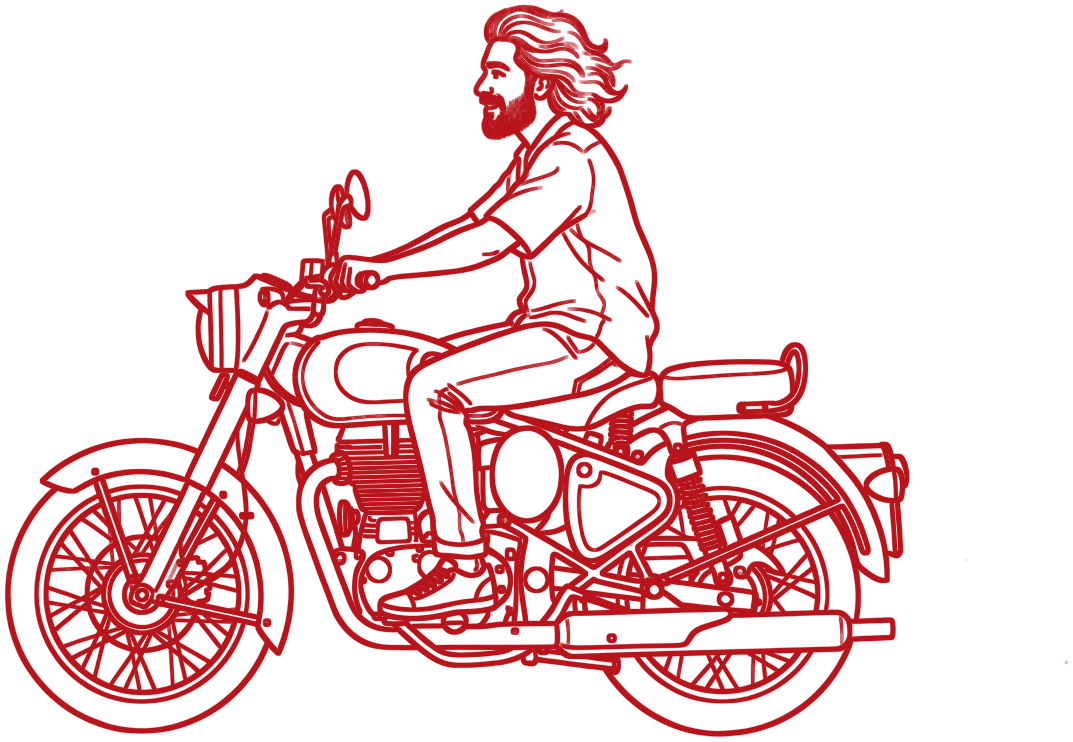
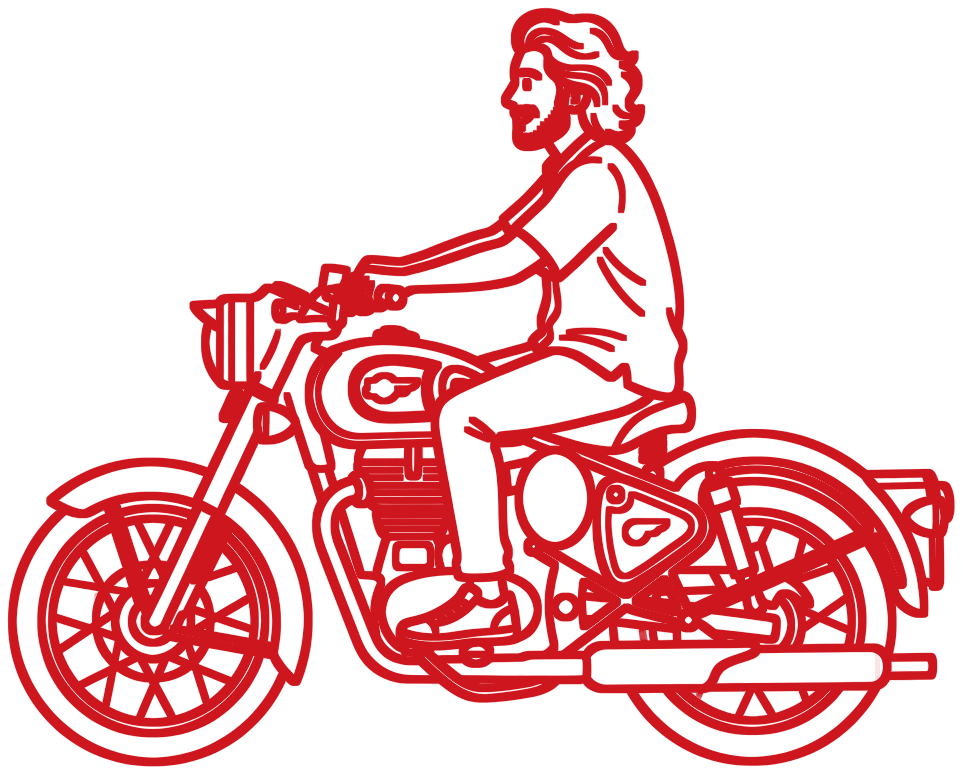
v127: clearer welcome drawings, simpler FIFA and Bullet
- Thicker, brighter red lines with a thin white keyline so they read on the sky
- FIFA and Royal Enfield Bullet redrawn at a medium level of detail
- Overlays re-fitted to the new drawings

Claude-Session: https://claude.ai/code/session_013G15fzCMwgXvJexXZMdXm4

diff --git a/index.html b/index.html
@@ -24,11 +24,11 @@
   <meta property="og:image:height" content="630">
   <meta property="og:image:alt" content="Sijo Joseph, product, UX and AI designer, with four case study covers">
   <meta name="twitter:card" content="summary_large_image">
-  <script src="update.js?v=126"></script>
-  <script src="gate.js?v=126"></script>
-  <link href="fonts/fonts.css?v=126" rel="stylesheet">
-  <link rel="stylesheet" href="styles.css?v=126">
-  <link rel="stylesheet" href="reader.css?v=126">
+  <script src="update.js?v=127"></script>
+  <script src="gate.js?v=127"></script>
+  <link href="fonts/fonts.css?v=127" rel="stylesheet">
+  <link rel="stylesheet" href="styles.css?v=127">
+  <link rel="stylesheet" href="reader.css?v=127">
   <script type="importmap">
   {
     "imports": {
@@ -42,10 +42,10 @@
   <link rel="modulepreload" href="vendor/three/examples/jsm/loaders/GLTFLoader.js">
   <link rel="modulepreload" href="vendor/three/examples/jsm/controls/OrbitControls.js">
   <link rel="modulepreload" href="vendor/three/examples/jsm/libs/meshopt_decoder.module.js">
-  <link rel="modulepreload" href="main.js?v=126">
-  <link rel="modulepreload" href="sound.js?v=126">
-  <link rel="modulepreload" href="room-utils.js?v=126">
-  <link rel="modulepreload" href="cat.js?v=126">
+  <link rel="modulepreload" href="main.js?v=127">
+  <link rel="modulepreload" href="sound.js?v=127">
+  <link rel="modulepreload" href="room-utils.js?v=127">
+  <link rel="modulepreload" href="cat.js?v=127">
   <script type="application/ld+json">{"@context": "https://schema.org", "@type": "Person", "name": "Sijo Joseph", "url": "https://sijo.work/", "jobTitle": "Product, UX and AI designer", "alumniOf": {"@type": "CollegeOrUniversity", "name": "National Institute of Design, Bengaluru"}, "address": {"@type": "PostalAddress", "addressLocality": "Bengaluru", "addressCountry": "IN"}, "sameAs": ["https://www.linkedin.com/in/sijodesign", "https://github.com/sijojoseph7509-a11y"], "knowsAbout": ["Product design", "UX design", "Interaction design", "Information design", "Wayfinding", "Brand identity", "AI-assisted prototyping"]}</script>
 </head>
 <body>
@@ -90,33 +90,33 @@
   <div class="loader" id="loader">
     <!-- v125: Sijo and Shea, drawn in the red ink of the cloud's handwriting (Figma AI, line only), animated in CSS around the welcome card -->
     <div class="wl-ill wl-juggle" aria-hidden="true">
-      <img src="assets/welcome/juggle.webp" alt="" width="699" height="1096" decoding="async">
-      <svg viewBox="0 0 699 1096"><g class="wl-kick" stroke="#B8141B" stroke-width="6" stroke-linecap="round"><path d="M512,690 l-26,6 M518,714 l-28,14 M622,686 l26,-8"/></g><g class="wl-ball"><g class="wl-spin"><circle r="54" fill="none" stroke="#B8141B" stroke-width="6.8"/><path d="M0,-18.9 L18.0,-5.8 L11.1,15.3 L-11.1,15.3 L-18.0,-5.8 Z" fill="#B8141B"/><path d="M0,-18.9 V-49.7 M18.0,-5.8 L47.0,-15.1 M11.1,15.3 L28.6,41.6 M-11.1,15.3 L-28.6,41.6 M-18.0,-5.8 L-47.0,-15.1" stroke="#B8141B" stroke-width="6.0" stroke-linecap="round" fill="none"/></g></g></svg>
+      <img src="assets/welcome/juggle.webp" alt="" width="707" height="1104" decoding="async">
+      <svg viewBox="0 0 707 1104"><g class="wl-kick" stroke="#CE161E" stroke-width="6" stroke-linecap="round"><path d="M512,690 l-26,6 M518,714 l-28,14 M622,686 l26,-8"/></g><g class="wl-ball"><g class="wl-spin"><circle r="54" fill="none" stroke="#CE161E" stroke-width="6.8"/><path d="M0,-18.9 L18.0,-5.8 L11.1,15.3 L-11.1,15.3 L-18.0,-5.8 Z" fill="#CE161E"/><path d="M0,-18.9 V-49.7 M18.0,-5.8 L47.0,-15.1 M11.1,15.3 L28.6,41.6 M-11.1,15.3 L-28.6,41.6 M-18.0,-5.8 L-47.0,-15.1" stroke="#CE161E" stroke-width="6.0" stroke-linecap="round" fill="none"/></g></g></svg>
     </div>
     <div class="wl-ill wl-lift" aria-hidden="true">
-      <img src="assets/welcome/lift.webp" alt="" width="508" height="1140" decoding="async">
-      <svg viewBox="0 0 508 1140"><g class="wl-effort" stroke="#B8141B" stroke-width="6" stroke-linecap="round" fill="none"><path d="M20,40 l-22,-14 M14,78 l-26,0 M480,70 l24,-14 M488,108 l26,0"/></g>
-        <path class="wl-sweat" d="M352,190 q-12,20 0,26 q12,-6 0,-26 Z" fill="none" stroke="#B8141B" stroke-width="5"/>
+      <img src="assets/welcome/lift.webp" alt="" width="516" height="1148" decoding="async">
+      <svg viewBox="0 0 516 1148"><g class="wl-effort" stroke="#CE161E" stroke-width="6" stroke-linecap="round" fill="none"><path d="M20,40 l-22,-14 M14,78 l-26,0 M480,70 l24,-14 M488,108 l26,0"/></g>
+        <path class="wl-sweat" d="M352,190 q-12,20 0,26 q12,-6 0,-26 Z" fill="none" stroke="#CE161E" stroke-width="5"/>
         <text class="wl-reps" x="-230" y="640"><tspan class="r1">8</tspan><tspan class="r2" x="-230">9</tspan><tspan class="r3" x="-230">10!</tspan></text></svg>
     </div>
     <div class="wl-ill wl-fifa" aria-hidden="true">
-      <img src="assets/welcome/fifa.webp" alt="" width="1139" height="653" decoding="async">
-      <svg viewBox="0 0 1139 653"><g fill="none" stroke="#B8141B" stroke-width="3" stroke-linejoin="round"><path d="M97,165 L247,185 L247,367 L97,439 Z"/><path d="M172.0,175.0 L172.0,403.0"/><path d="M186.6,286.5 L186.1,293.9 L184.7,301.1 L182.3,307.6 L179.3,312.9 L175.8,316.7 L172.0,318.6 L168.2,318.6 L164.7,316.4 L161.7,312.3 L159.3,306.5 L157.9,299.4 L157.4,291.5 L157.9,283.5 L159.3,275.9 L161.7,269.3 L164.7,264.1 L168.2,260.7 L172.0,259.4 L175.8,260.0 L179.3,262.6 L182.3,266.8 L184.7,272.5 L186.1,279.2 Z"/><path d="M97.0,241.7 L119.5,240.9 L119.5,355.3 L97.0,362.3"/><path d="M247.0,236.0 L224.5,236.8 L224.5,323.0 L247.0,316.0"/><path d="M247.0,261.4 L253.0,260.7 L253.0,289.2 L247.0,290.6"/></g>
-        <circle class="wl-p wl-def" r="10" fill="none" stroke="#B8141B" stroke-width="4"/><circle class="wl-p wl-gk" r="10" fill="none" stroke="#B8141B" stroke-width="4"/>
-        <circle class="wl-p wl-att" r="10.5" fill="#B8141B"/><circle class="wl-p wl-tvball" r="6" fill="#B8141B"/>
-        <text class="wl-goal" x="60" y="120" transform="rotate(-9 170 90)">GOAL!</text>
-        <g class="wl-buzz" stroke="#B8141B" stroke-width="6" stroke-linecap="round"><path d="M580,265 l-22,-16 M570,302 l-28,2 M580,338 l-20,16"/></g></svg>
+      <img src="assets/welcome/fifa.webp" alt="" width="1192" height="729" decoding="async">
+      <svg viewBox="0 0 1192 729"><g fill="none" stroke="#CE161E" stroke-width="4" stroke-linejoin="round"><path d="M116,45 L337,111 L337,377 L116,465 Z"/><path d="M226.5,78.0 L226.5,421.0"/><path d="M248.0,248.4 L247.3,259.5 L245.2,270.0 L241.7,279.3 L237.3,286.7 L232.1,291.8 L226.5,294.1 L220.9,293.3 L215.7,289.5 L211.3,282.8 L207.8,273.6 L205.7,262.6 L205.0,250.6 L205.7,238.5 L207.8,227.3 L211.3,217.8 L215.7,210.6 L220.9,206.2 L226.5,204.9 L232.1,206.6 L237.3,211.2 L241.7,218.2 L245.2,227.1 L247.3,237.4 Z"/><path d="M116.0,162.6 L149.2,166.0 L149.2,340.7 L116.0,347.4"/><path d="M337.0,185.5 L303.9,182.0 L303.9,309.3 L337.0,302.5"/><path d="M337.0,222.7 L345.8,222.8 L345.8,264.3 L337.0,265.3"/></g>
+        <circle class="wl-p wl-def" r="13" fill="none" stroke="#CE161E" stroke-width="5"/><circle class="wl-p wl-gk" r="13" fill="none" stroke="#CE161E" stroke-width="5"/>
+        <circle class="wl-p wl-att" r="13.5" fill="#CE161E"/><circle class="wl-p wl-tvball" r="8" fill="#CE161E"/>
+        <text class="wl-goal" x="380" y="120" transform="rotate(-9 480 90)">GOAL!</text>
+        <g class="wl-buzz" stroke="#CE161E" stroke-width="7" stroke-linecap="round"><path d="M655,300 l-24,-18 M644,340 l-30,2 M655,378 l-22,18"/></g></svg>
     </div>
     <div class="wl-ill wl-bullet" aria-hidden="true">
-      <img src="assets/welcome/bullet.webp" alt="" width="1073" height="742" decoding="async">
-      <svg viewBox="0 0 1073 742"><g fill="none" stroke="#B8141B" stroke-width="5" stroke-linecap="round"><circle class="wl-tread" cx="148" cy="595" r="124" stroke-dasharray="6 34"/><circle class="wl-tread" cx="718" cy="602" r="124" stroke-dasharray="6 34"/></g>
-        <path class="wl-road" d="M-60,740 H1130" stroke="#B8141B" stroke-width="5" stroke-linecap="round" stroke-dasharray="70 70"/>
-        <g fill="none" stroke="#B8141B" stroke-width="5"><circle class="wl-puff p1" cx="905" cy="628" r="26"/><circle class="wl-puff p2" cx="905" cy="628" r="20"/><circle class="wl-puff p3" cx="905" cy="628" r="32"/></g>
-        <text class="wl-dug" x="860" y="520">dug dug dug</text></svg>
+      <img src="assets/welcome/bullet.webp" alt="" width="963" height="775" decoding="async">
+      <svg viewBox="0 0 963 775"><g fill="none" stroke="#CE161E" stroke-width="6" stroke-linecap="round"><circle class="wl-tread" cx="158" cy="613" r="128" stroke-dasharray="8 52"/><circle class="wl-tread" cx="753" cy="621" r="124" stroke-dasharray="8 52"/></g>
+        <path class="wl-road" d="M-60,768 H1030" stroke="#CE161E" stroke-width="6" stroke-linecap="round" stroke-dasharray="70 70"/>
+        <g fill="none" stroke="#CE161E" stroke-width="6"><circle class="wl-puff p1" cx="950" cy="664" r="26"/><circle class="wl-puff p2" cx="950" cy="664" r="20"/><circle class="wl-puff p3" cx="950" cy="664" r="32"/></g>
+        <text class="wl-dug" x="760" y="520">dug dug dug</text></svg>
     </div>
     <div class="wl-shea" aria-hidden="true">
-      <div class="wl-shea-ball"><svg viewBox="-46 -46 92 92"><g class="wl-spin"><circle r="40" fill="none" stroke="#B8141B" stroke-width="5.0"/><path d="M0,-14.0 L13.3,-4.3 L8.2,11.3 L-8.2,11.3 L-13.3,-4.3 Z" fill="#B8141B"/><path d="M0,-14.0 V-36.8 M13.3,-4.3 L34.8,-11.2 M8.2,11.3 L21.2,30.8 M-8.2,11.3 L-21.2,30.8 M-13.3,-4.3 L-34.8,-11.2" stroke="#B8141B" stroke-width="4.4" stroke-linecap="round" fill="none"/></g></svg></div>
-      <img class="wl-shea-cat" src="assets/welcome/shea.webp" alt="" width="995" height="596" decoding="async">
+      <div class="wl-shea-ball"><svg viewBox="-46 -46 92 92"><g class="wl-spin"><circle r="40" fill="none" stroke="#CE161E" stroke-width="5.0"/><path d="M0,-14.0 L13.3,-4.3 L8.2,11.3 L-8.2,11.3 L-13.3,-4.3 Z" fill="#CE161E"/><path d="M0,-14.0 V-36.8 M13.3,-4.3 L34.8,-11.2 M8.2,11.3 L21.2,30.8 M-8.2,11.3 L-21.2,30.8 M-13.3,-4.3 L-34.8,-11.2" stroke="#CE161E" stroke-width="4.4" stroke-linecap="round" fill="none"/></g></svg></div>
+      <img class="wl-shea-cat" src="assets/welcome/shea.webp" alt="" width="1003" height="604" decoding="async">
     </div>
     <div class="loader-inner">
       <span class="loader-name" aria-hidden="true"><img src="assets/brand/sj-mark-on-dark.svg" alt=""></span>
@@ -220,11 +220,11 @@
     </div>
   </noscript>
 
-  <script src="content.js?v=126"></script>
-  <script src="track.js?v=126"></script>
-  <script src="icons.js?v=126"></script>
-  <script src="os.js?v=126"></script>
-  <script src="music.js?v=126"></script>
-  <script type="module" src="main.js?v=126"></script>
+  <script src="content.js?v=127"></script>
+  <script src="track.js?v=127"></script>
+  <script src="icons.js?v=127"></script>
+  <script src="os.js?v=127"></script>
+  <script src="music.js?v=127"></script>
+  <script type="module" src="main.js?v=127"></script>
 </body>
 </html>

diff --git a/styles.css b/styles.css
@@ -687,20 +687,22 @@ button.card .cover::before, button.card .cover::after { display: none; }   /* re
 .wl-ill { position: absolute; z-index: 1; pointer-events: none; }
 .wl-ill img, .wl-ill svg { display: block; width: 100%; height: auto; }
 .wl-ill svg { position: absolute; inset: 0; height: 100%; overflow: visible; }
-.wl-ill text { font-family: "Caveat", "Comic Sans MS", cursive; font-weight: 700; fill: #B8141B; paint-order: stroke; stroke: rgba(255,255,255,.85); stroke-linejoin: round; }
-.wl-juggle { left: 5vw; top: 15vh; height: 37vh; aspect-ratio: 699 / 1096; }
-.wl-lift { left: 19.5vw; top: 50vh; height: 35vh; aspect-ratio: 508 / 1140; }
-.wl-fifa { right: 3vw; top: 14vh; width: 26vw; aspect-ratio: 1139 / 653; }
-.wl-bullet { right: 4.5vw; top: 52vh; width: 24vw; aspect-ratio: 1073 / 742; }
+.wl-ill text { font-family: "Caveat", "Comic Sans MS", cursive; font-weight: 700; fill: #CE161E; paint-order: stroke; stroke: rgba(255,255,255,.85); stroke-linejoin: round; }
+.wl-juggle { left: 5vw; top: 14vh; height: 38vh; aspect-ratio: 707 / 1104; }
+.wl-lift { left: 19.5vw; top: 50vh; height: 36vh; aspect-ratio: 516 / 1148; }
+.wl-fifa { right: 3vw; top: 13vh; width: 25vw; aspect-ratio: 1192 / 729; }
+.wl-bullet { right: 5vw; top: 50vh; width: 21vw; aspect-ratio: 963 / 775; }
 .wl-ill img { animation: wlBoil .5s steps(1) infinite; }
+/* the red lines get a thin white keyline and a soft shadow so they read clearly on the blue sky */
+.wl-ill img, .wl-ill svg, .wl-shea-cat, .wl-shea-ball svg { filter: drop-shadow(0 0 1.2px #fff) drop-shadow(0 0 1.2px #fff) drop-shadow(0 0 .6px #fff) drop-shadow(0 3px 8px rgba(10, 30, 80, .28)); }
 @keyframes wlBoil { 0% { translate: 0 0; } 33% { translate: .4px -.3px; } 66% { translate: -.3px .3px; } }
 
 /* keepy-ups: the ball pops off the raised foot and drops back, spinning; he bobs on each touch */
 .wl-juggle img { transform-origin: 40% 100%; animation: wlTouch 1.1s cubic-bezier(.3,.6,.4,1) infinite, wlBoil .5s steps(1) infinite; }
 @keyframes wlTouch { 0%, 100% { transform: none; } 8% { transform: translateY(-5px) rotate(-1.2deg); } 32% { transform: none; } }
 .wl-ball { animation: wlUp 1.1s infinite; }
-@keyframes wlUp { 0% { transform: translate(566px, 628px); animation-timing-function: cubic-bezier(.15,.7,.35,1); }
-  50% { transform: translate(536px, 110px); animation-timing-function: cubic-bezier(.65,0,.85,.3); } 100% { transform: translate(566px, 628px); } }
+@keyframes wlUp { 0% { transform: translate(570px, 632px); animation-timing-function: cubic-bezier(.15,.7,.35,1); }
+  50% { transform: translate(540px, 114px); animation-timing-function: cubic-bezier(.65,0,.85,.3); } 100% { transform: translate(570px, 632px); } }
 .wl-spin { animation: wlSpin 1.1s linear infinite; } @keyframes wlSpin { to { rotate: 360deg; } }
 .wl-kick { opacity: 0; animation: wlKick 1.1s infinite; } @keyframes wlKick { 0%, 14% { opacity: 1; } 22%, 100% { opacity: 0; } }
 
@@ -723,10 +725,10 @@ button.card .cover::before, button.card .cover::after { display: none; }   /* re
 .wl-buzz { opacity: 0; animation: wlBuzz 6s infinite; } @keyframes wlBuzz { 0%, 61%, 86%, 100% { opacity: 0; } 63%, 67%, 71%, 75%, 79% { opacity: 1; } 65%, 69%, 73%, 77% { opacity: .2; } }
 .wl-fifa img { animation: wlCheer 6s infinite, wlBoil .5s steps(1) infinite; transform-origin: 75% 100%; }
 @keyframes wlCheer { 0%, 61%, 82%, 100% { transform: none; } 65% { transform: translateY(-8px) rotate(.6deg); } 69% { transform: translateY(-2px); } 73% { transform: translateY(-7px) rotate(-.4deg); } 77% { transform: none; } }
-@keyframes wlBall { 0% { transform: translate(172.0px, 289.0px); } 15% { transform: translate(187.0px, 255.8px); } 32% { transform: translate(202.0px, 309.0px); } 50% { transform: translate(223.0px, 268.4px); } 62% { transform: translate(248.5px, 275.7px); } 86% { transform: translate(248.5px, 275.7px); } 87% { transform: translate(172.0px, 289.0px); } 100% { transform: translate(172.0px, 289.0px); } }
-@keyframes wlAtt { 0% { transform: translate(163.0px, 295.2px); } 15% { transform: translate(179.5px, 265.4px); } 32% { transform: translate(194.5px, 306.5px); } 50% { transform: translate(215.5px, 273.4px); } 62% { transform: translate(226.0px, 279.6px); } 86% { transform: translate(226.0px, 279.6px); } 87% { transform: translate(163.0px, 295.2px); } 100% { transform: translate(163.0px, 295.2px); } }
-@keyframes wlDef { 0% { transform: translate(205.0px, 241.7px); } 20% { transform: translate(208.0px, 272.5px); } 40% { transform: translate(217.0px, 291.2px); } 55% { transform: translate(232.0px, 297.7px); } 86% { transform: translate(232.0px, 301.5px); } 87% { transform: translate(205.0px, 241.7px); } 100% { transform: translate(205.0px, 241.7px); } }
-@keyframes wlGk { 0% { transform: translate(242.5px, 276.8px); } 45% { transform: translate(242.5px, 265.7px); } 58% { transform: translate(242.5px, 306.3px); } 86% { transform: translate(242.5px, 306.3px); } 87% { transform: translate(242.5px, 276.8px); } 100% { transform: translate(242.5px, 276.8px); } }
+@keyframes wlBall { 0% { transform: translate(226.5px, 249.5px); } 15% { transform: translate(248.6px, 202.5px); } 32% { transform: translate(270.7px, 284.8px); } 50% { transform: translate(301.6px, 228.3px); } 62% { transform: translate(339.2px, 243.9px); } 86% { transform: translate(339.2px, 243.9px); } 87% { transform: translate(226.5px, 249.5px); } 100% { transform: translate(226.5px, 249.5px); } }
+@keyframes wlAtt { 0% { transform: translate(213.2px, 257.2px); } 15% { transform: translate(237.6px, 215.4px); } 32% { transform: translate(259.6px, 279.8px); } 50% { transform: translate(290.6px, 234.4px); } 62% { transform: translate(306.1px, 245.5px); } 86% { transform: translate(306.1px, 245.5px); } 87% { transform: translate(213.2px, 257.2px); } 100% { transform: translate(213.2px, 257.2px); } }
+@keyframes wlDef { 0% { transform: translate(275.1px, 185.3px); } 20% { transform: translate(279.5px, 231.6px); } 40% { transform: translate(292.8px, 261.0px); } 55% { transform: translate(314.9px, 273.2px); } 86% { transform: translate(314.9px, 278.9px); } 87% { transform: translate(275.1px, 185.3px); } 100% { transform: translate(275.1px, 185.3px); } }
+@keyframes wlGk { 0% { transform: translate(330.4px, 244.3px); } 45% { transform: translate(330.4px, 228.1px); } 58% { transform: translate(330.4px, 287.6px); } 86% { transform: translate(330.4px, 287.6px); } 87% { transform: translate(330.4px, 244.3px); } 100% { transform: translate(330.4px, 244.3px); } }
 
 /* the Bullet: the engine's thump shakes the bike, the tread spins, the road streams back, smoke puffs and "dug dug dug" */
 .wl-bullet img { animation: wlThump .24s steps(2) infinite, wlBoil .5s steps(1) infinite; }

diff --git a/main.js b/main.js
@@ -5,8 +5,8 @@ import { RoomEnvironment } from "three/addons/environments/RoomEnvironment.js";
 import { GLTFLoader } from "three/addons/loaders/GLTFLoader.js";
 import { MeshoptDecoder } from "three/addons/libs/meshopt_decoder.module.js";
 import { mergeGeometries } from "three/addons/utils/BufferGeometryUtils.js";
-import { Sound } from "./sound.js?v=126";
-import { sharpen, rr, bezier, tileNoise, wrapText } from "./room-utils.js?v=126";
+import { Sound } from "./sound.js?v=127";
+import { sharpen, rr, bezier, tileNoise, wrapText } from "./room-utils.js?v=127";
 
 const S = window.SITE;
 const TOUCH = matchMedia("(pointer: coarse)").matches;   // phones & tablets: say "tap", no hover effects

diff --git a/HANDOVER.md b/HANDOVER.md
@@ -401,6 +401,7 @@ explorations · sketches · side projects · ideas"), poster text, terminal mess
 - **v124:** New welcome screen: Sijo's sky photo with the handwritten "TALENT (struck) AIN'T ENOUGH" in the cloud (assets/welcome/sky.webp, sky-sm.webp for phones) replaces the collage. Identity (logo, SIJO JOSEPH, നമസ്കാരം / HELLO) sits at the top, the welcome card low under the cloud so the handwriting stays clear. Either side, two illustrations of Sijo in the cloud text's red ink: juggling a football (left) and playing FIFA on a beanbag (right). They were generated with Figma AI (file "sijo.work — Welcome illustrations", key qjjOxukztOVXq4HCCforhm, nodes 1:2 and 2:2), pulled out through Figma screenshots (asset downloads are blocked in the cloud) and cut out (assets/welcome/juggle.webp, fifa.webp). The animation is inline SVG + CSS in index.html/styles.css: the ball keeps up off the raised foot and spins, he bobs on each touch; on the TV a little match plays in perspective, the shot goes in, GOAL! pops in Caveat, the controller buzzes and he jumps. A slight line jitter (wlBoil) keeps them hand-drawn. Hidden under 1000px wide or 600px tall; reduced-motion shows still poses.
 - **v125:** Welcome screen: the v123 dark centred card is back, over the sky (it may cover the cloud's handwriting; Sijo's call). The drawings are redrawn without sunglasses (Figma nodes 3:2 juggling, 5:2 FIFA) and are red ink lines only, no white fill (alpha from ink darkness, lines thickened one pixel). New geometry: juggle 660x1040, fifa 1048x655, TV screen corners (81,220) (212,233) (212,410) (81,477). Drawings hide under 1180px wide or 600px tall.
 - **v126:** Welcome screen composition: the dark card over the sky stays; around it five red-ink line drawings (Figma AI, "sijo.work — Welcome illustrations", nodes 6:2 juggle, 7:2 FIFA, 8:2 shoulder press, 9:2 Royal Enfield Bullet (mirrored to face the card), 10:2 Shea), all outline only, hair and beard unfilled, no sunglasses. Left column: keepy-ups (ball pops and spins) above a dumbbell press (dips and drives each rep, effort lines, sweat, a handwritten 8, 9, 10!). Right column: FIFA (match on the TV in perspective, GOAL!, buzz, cheer) above the Bullet (engine thump, spinning tread, road streaming back, smoke puffs, "dug dug dug"). Shea (`.wl-shea`, fixed, z 2) chases a ball along the bottom to the right and back along the top to the left every 16 s, bounding; she also runs on phones. Drawings hide under 1180px wide or 640px tall; Shea hides under 460px tall and with reduced motion. TV screen corners (cropped fifa.webp): (97,165) (247,185) (247,367) (97,439).
+- **v127:** Welcome drawings made easier to see on the sky: thicker lines (alpha dilated 5px), a brighter red (#CE161E), and a thin white keyline plus soft shadow on every drawing and overlay (CSS drop-shadows). FIFA and the Bullet redrawn at a medium level of detail (Figma nodes 13:2 and 12:2, bike mirrored); new TV screen corners (116,45) (337,111) (337,377) (116,465) in fifa.webp; Bullet wheel centres (158,613) and (753,621).
 - Work cards and About thumbnails use `case.coverSlide` when a project gives one (Syntra: `fx/cover-slide.webp`, 1440 × 900), otherwise the first section.
 - Desk folders: tab width now shares the edge (`TAB_W`), so 4+ projects never overlap.
 - ⚠ Testing note (14 Oct 2026): another session had an http-server on 127.0.0.1:4322 serving the `.claude/worktrees/goofy-solomon-8f688e` copy — always check `lsof -iTCP:<port>` or use a fresh port before trusting QA results.
